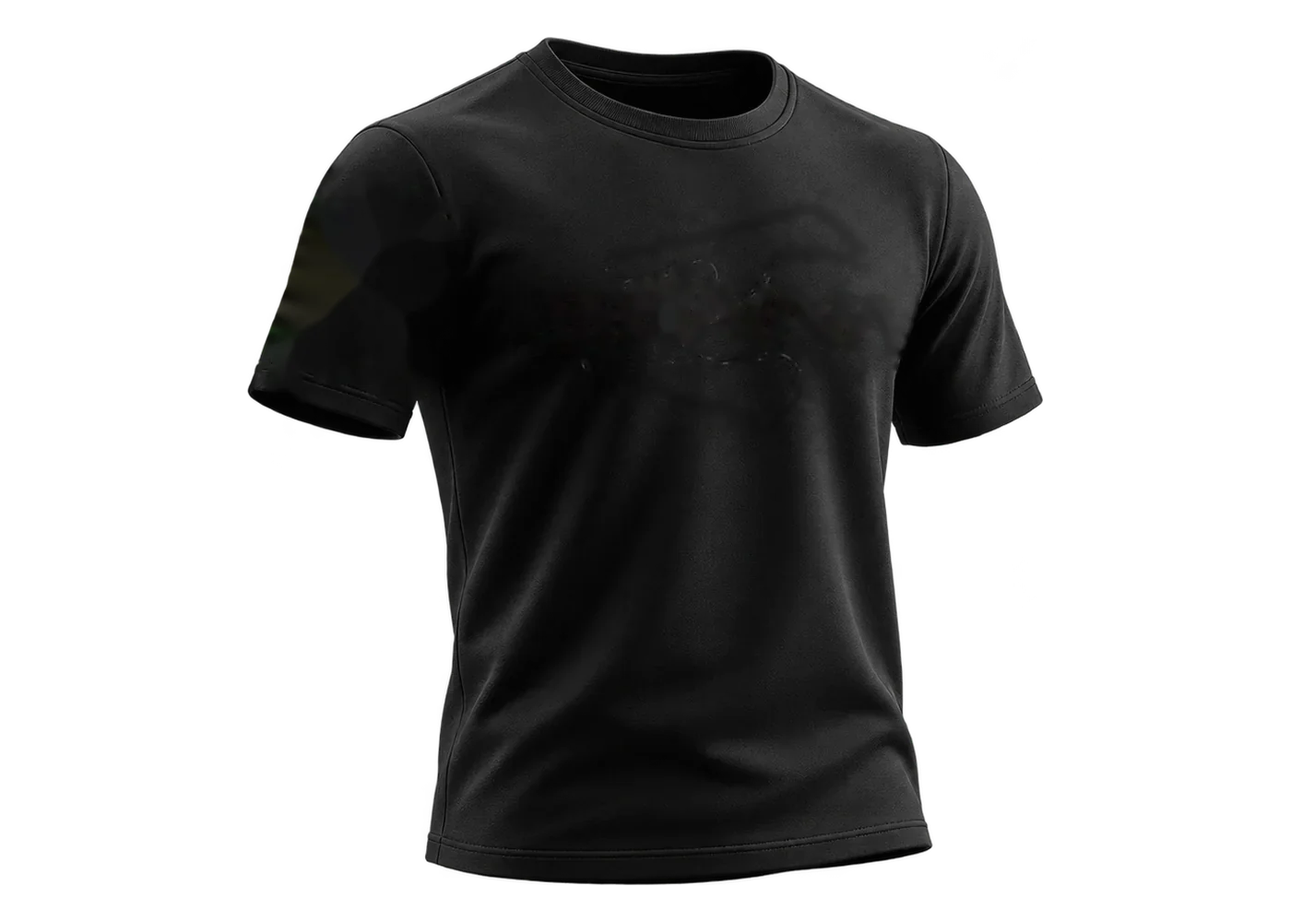
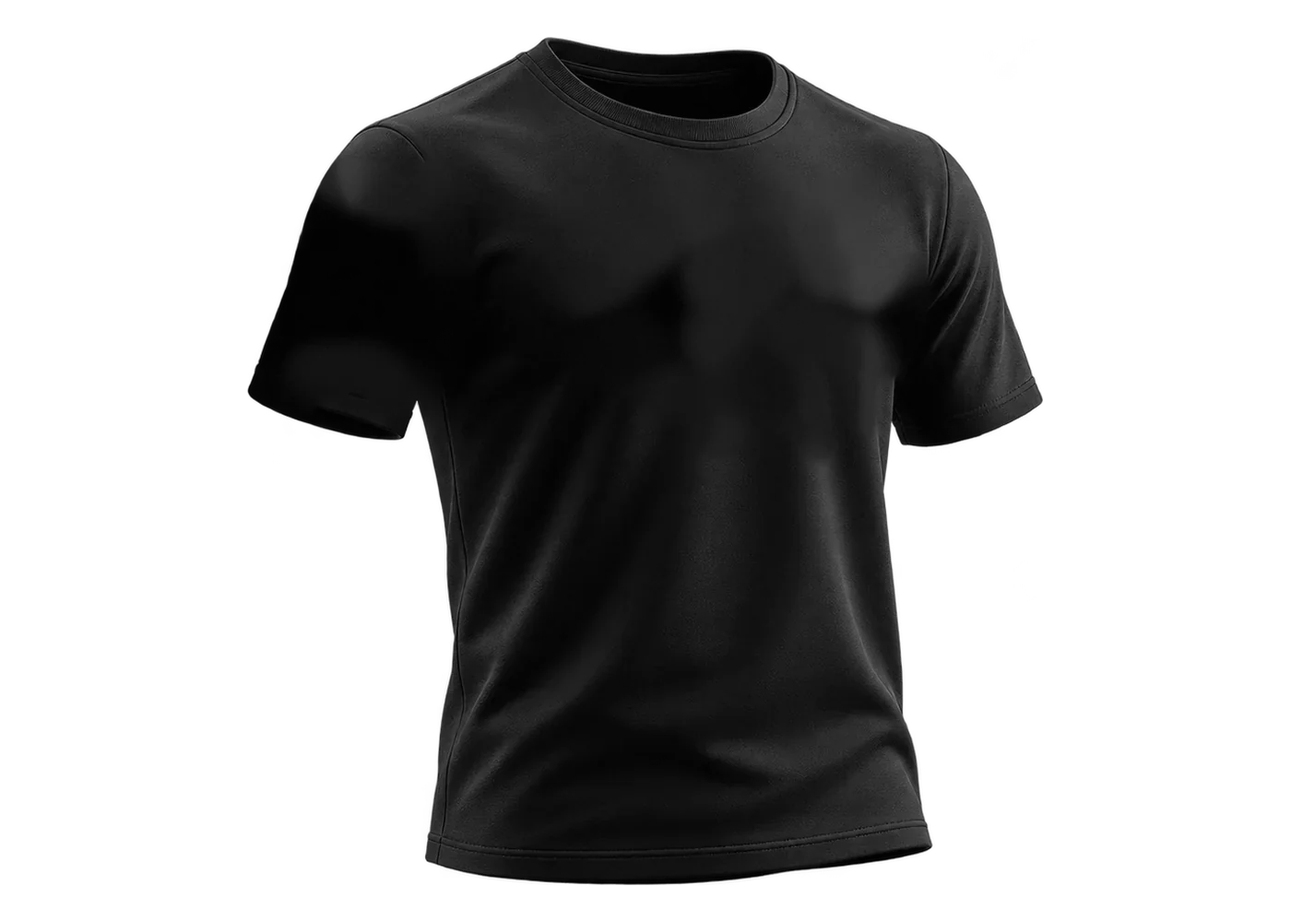
Refinamento: processo sob encomenda, avaliações reais e camadas limpas
- Como funciona em 5 passos (ideia, arte, aprovação, produção, entrega)
- Textos sem ideia de produto pronto e mensagens do WhatsApp personalizadas
- Depoimentos com avaliações reais do Google e selo 4,8
- FAQ com tamanhos, mínimo de 10 peças, pagamento e novas perguntas
- Exploded view em leque, arte das costas visível, traçado vetorial,
  logo chapado e malha lisa sem manchas

Changed region(s): [[0.1843, 0.248, 0.2764, 0.434], [0.6757, 0.279, 0.7371, 0.403], [0.4914, 0.279, 0.5529, 0.372]]

diff --git a/index.html b/index.html
@@ -35,7 +35,7 @@
         <header class="header">
           <a class="brand" href="#hero360" data-scroll-top aria-label="ADONAY, voltar ao início">ADONAY<span class="brand-mark">✳</span></a>
           <span class="header-center">CONCEPT / 001</span>
-          <span class="header-tag"><span class="live-dot"></span> COLEÇÃO EXCLUSIVA</span>
+          <span class="header-tag"><span class="live-dot"></span> 100% PERSONALIZADO</span>
         </header>
 
         <div class="hero-copy" data-hero-copy>
@@ -92,11 +92,11 @@
           <div class="ex-shadow" aria-hidden="true"></div>
           <!-- Camadas de baixo para cima. data-anchor = ponto (x%, y%) onde a linha da legenda encosta -->
           <div class="ex-stack" id="ex-stack">
-            <div class="ex-layer" data-anchor="58,40"><img src="img/layers/layer-costas-lg.webp" srcset="img/layers/layer-costas-sm.webp 760w, img/layers/layer-costas-lg.webp 1400w" sizes="(max-width: 740px) 90vw, 50vw" alt="" fetchpriority="low" decoding="async" /></div>
-            <div class="ex-layer" data-anchor="72,78"><img src="img/layers/layer-malha-lg.webp" srcset="img/layers/layer-malha-sm.webp 760w, img/layers/layer-malha-lg.webp 1400w" sizes="(max-width: 740px) 90vw, 50vw" alt="" fetchpriority="low" decoding="async" /></div>
-            <div class="ex-layer" data-anchor="66,24"><img src="img/layers/layer-tracado-lg.webp" srcset="img/layers/layer-tracado-sm.webp 760w, img/layers/layer-tracado-lg.webp 1400w" sizes="(max-width: 740px) 90vw, 50vw" alt="" fetchpriority="low" decoding="async" /></div>
-            <div class="ex-layer" data-anchor="70,34"><img src="img/layers/layer-logo-lg.webp" srcset="img/layers/layer-logo-sm.webp 760w, img/layers/layer-logo-lg.webp 1400w" sizes="(max-width: 740px) 90vw, 50vw" alt="" fetchpriority="low" decoding="async" /></div>
-            <div class="ex-layer" data-anchor="33,30"><img src="img/layers/layer-bandeira-lg.webp" srcset="img/layers/layer-bandeira-sm.webp 760w, img/layers/layer-bandeira-lg.webp 1400w" sizes="(max-width: 740px) 90vw, 50vw" alt="" fetchpriority="low" decoding="async" /></div>
+            <div class="ex-layer" data-anchor="58,40"><img src="img/layers/layer-costas-lg.webp?v=2" srcset="img/layers/layer-costas-sm.webp?v=2 760w, img/layers/layer-costas-lg.webp?v=2 1400w" sizes="(max-width: 740px) 90vw, 50vw" alt="" fetchpriority="low" decoding="async" /></div>
+            <div class="ex-layer" data-anchor="72,78"><img src="img/layers/layer-malha-lg.webp?v=2" srcset="img/layers/layer-malha-sm.webp?v=2 760w, img/layers/layer-malha-lg.webp?v=2 1400w" sizes="(max-width: 740px) 90vw, 50vw" alt="" fetchpriority="low" decoding="async" /></div>
+            <div class="ex-layer" data-anchor="66,24"><img class="ex-track" src="img/layers/interlagos.svg?v=2" alt="" decoding="async" /></div>
+            <div class="ex-layer" data-anchor="70,34"><img src="img/layers/layer-logo-lg.webp?v=2" srcset="img/layers/layer-logo-sm.webp?v=2 760w, img/layers/layer-logo-lg.webp?v=2 1400w" sizes="(max-width: 740px) 90vw, 50vw" alt="" fetchpriority="low" decoding="async" /></div>
+            <div class="ex-layer" data-anchor="33,30"><img src="img/layers/layer-bandeira-lg.webp?v=2" srcset="img/layers/layer-bandeira-sm.webp?v=2 760w, img/layers/layer-bandeira-lg.webp?v=2 1400w" sizes="(max-width: 740px) 90vw, 50vw" alt="" fetchpriority="low" decoding="async" /></div>
           </div>
         </div>
 
@@ -135,8 +135,8 @@
         <article class="tilt-card feature" data-fade>
           <span class="glare" aria-hidden="true"></span>
           <svg class="feature-icon" viewBox="0 0 24 24" aria-hidden="true"><path d="m12 3 2.6 5.6 6 .7-4.5 4.1 1.2 6L12 16.4 6.7 19.4l1.2-6L3.4 9.3l6-.7L12 3Z"/></svg>
-          <h3>Design exclusivo</h3>
-          <p>Artes autorais que você não encontra em loja de shopping.</p>
+          <h3>Arte do seu jeito</h3>
+          <p>Criamos a estampa a partir da sua ideia, com mockup para aprovar.</p>
         </article>
         <article class="tilt-card feature" data-fade>
           <span class="glare" aria-hidden="true"></span>
@@ -151,32 +151,32 @@
     <section id="colecao" class="collection" aria-labelledby="collection-title">
       <div class="collection-stage">
         <div class="collection-head">
-          <div class="eyebrow"><span class="eyebrow-line"></span> COLEÇÃO SENNA</div>
+          <div class="eyebrow"><span class="eyebrow-line"></span> EXEMPLO DE TRABALHO</div>
           <h2 id="collection-title">Cada ângulo<br /><em>conta uma história.</em></h2>
-          <p>Arraste ou role para ver.</p>
+          <p>Estampa criada sob encomenda. A sua pode ser assim.</p>
         </div>
         <div class="collection-track" id="collection-track">
           <article class="tilt-card product" data-product="SENNA Black Edition (frente)">
             <span class="glare" aria-hidden="true"></span>
             <div class="product-img"><img src="img/tee/tee-00-sm.webp" alt="Frente da camiseta com logo SENNA e traçado de Interlagos" loading="lazy" decoding="async" /></div>
-            <div class="product-info"><span class="product-tag">FRENTE</span><h3>Logo + Interlagos</h3><a class="product-cta" data-whatsapp-product href="#">QUERO ESSA <span>→</span></a></div>
+            <div class="product-info"><span class="product-tag">FRENTE</span><h3>Logo + Interlagos</h3><a class="product-cta" data-whatsapp-product href="#">QUERO ALGO ASSIM <span>→</span></a></div>
           </article>
           <article class="tilt-card product" data-product="SENNA Black Edition (costas)">
             <span class="glare" aria-hidden="true"></span>
             <div class="product-img"><img src="img/tee/tee-04-sm.webp" alt="Costas da camiseta com pôster de Ayrton Senna" loading="lazy" decoding="async" /></div>
-            <div class="product-info"><span class="product-tag">COSTAS</span><h3>Pôster Ayrton Senna</h3><a class="product-cta" data-whatsapp-product href="#">QUERO ESSA <span>→</span></a></div>
+            <div class="product-info"><span class="product-tag">COSTAS</span><h3>Pôster Ayrton Senna</h3><a class="product-cta" data-whatsapp-product href="#">QUERO ALGO ASSIM <span>→</span></a></div>
           </article>
           <article class="tilt-card product" data-product="SENNA Black Edition (manga com bandeira)">
             <span class="glare" aria-hidden="true"></span>
             <div class="product-img"><img src="img/tee/tee-02-sm.webp" alt="Manga da camiseta com bandeira do Brasil em chamas" loading="lazy" decoding="async" /></div>
-            <div class="product-info"><span class="product-tag">MANGA</span><h3>Brasil em chamas</h3><a class="product-cta" data-whatsapp-product href="#">QUERO ESSA <span>→</span></a></div>
+            <div class="product-info"><span class="product-tag">MANGA</span><h3>Brasil em chamas</h3><a class="product-cta" data-whatsapp-product href="#">QUERO ALGO ASSIM <span>→</span></a></div>
           </article>
           <article class="tilt-card product" data-product="SENNA Black Edition (vista 3/4)">
             <span class="glare" aria-hidden="true"></span>
             <div class="product-img"><img src="img/tee/tee-03-sm.webp" alt="Vista em três quartos mostrando manga e costas" loading="lazy" decoding="async" /></div>
-            <div class="product-info"><span class="product-tag">3/4</span><h3>Todos os detalhes</h3><a class="product-cta" data-whatsapp-product href="#">QUERO ESSA <span>→</span></a></div>
+            <div class="product-info"><span class="product-tag">3/4</span><h3>Todos os detalhes</h3><a class="product-cta" data-whatsapp-product href="#">QUERO ALGO ASSIM <span>→</span></a></div>
           </article>
-          <article class="tilt-card product product-custom" data-product="estampa personalizada">
+          <article class="tilt-card product product-custom" data-product="estampa personalizada" data-message="Olá! Vim pelo site e quero criar uma estampa personalizada do zero.">
             <span class="glare" aria-hidden="true"></span>
             <div class="product-img custom-art" aria-hidden="true"><span>SUA<br />IDEIA<br /><em>AQUI.</em></span></div>
             <div class="product-info"><span class="product-tag">PERSONALIZADA</span><h3>Crie a sua estampa</h3><a class="product-cta" data-whatsapp-product href="#">CRIAR A MINHA <span>→</span></a></div>
@@ -189,47 +189,65 @@
     <section class="section steps-section" aria-labelledby="steps-title">
       <div class="section-head">
         <div class="eyebrow" data-fade><span class="eyebrow-line"></span> COMO FUNCIONA</div>
-        <h2 id="steps-title" data-split>Do clique à sua casa<br /><em>em três passos.</em></h2>
+        <h2 id="steps-title" data-split>Da sua ideia à sua casa<br /><em>em cinco passos.</em></h2>
       </div>
       <div class="how" id="how">
-        <svg class="how-line" viewBox="0 0 1000 40" preserveAspectRatio="none" aria-hidden="true"><path d="M0 20 C 160 0, 340 40, 500 20 S 840 0, 1000 20" pathLength="1" /></svg>
+        <svg class="how-line" viewBox="0 0 1000 40" preserveAspectRatio="none" aria-hidden="true"><path d="M0 20 H1000" pathLength="1" /></svg>
         <div class="how-step">
           <span class="how-num">01</span>
-          <h3>Escolha</h3>
-          <p>Veja a peça por todos os ângulos e escolha a sua estampa.</p>
+          <h3>Conte sua ideia</h3>
+          <p>Chame no WhatsApp e diga o tipo de peça, a estampa e a quantidade.</p>
         </div>
         <div class="how-step">
           <span class="how-num">02</span>
-          <h3>Chame no WhatsApp</h3>
-          <p>Fale tamanho e quantidade. A gente responde com o orçamento.</p>
+          <h3>Criamos a arte</h3>
+          <p>Montamos a estampa e o mockup na camiseta.</p>
         </div>
         <div class="how-step">
           <span class="how-num">03</span>
-          <h3>Receba</h3>
-          <p>Pagamento combinado e a camiseta chega até você.</p>
+          <h3>Você aprova</h3>
+          <p>Ajustamos até ficar do seu jeito.</p>
+        </div>
+        <div class="how-step">
+          <span class="how-num">04</span>
+          <h3>Pagamento e produção</h3>
+          <p>Com a arte aprovada, você fecha o pedido e começamos a produzir.</p>
+        </div>
+        <div class="how-step">
+          <span class="how-num">05</span>
+          <h3>Entrega</h3>
+          <p>Sua camiseta chega na data combinada.</p>
         </div>
       </div>
     </section>
 
     <!-- ============ DEPOIMENTOS ============ -->
-    <!-- ATENÇÃO: textos de exemplo. Troque por avaliações reais antes de rodar anúncios. -->
+    <!-- Avaliações reais da Adonay Confecção no Google Maps (lidas em 28/10/2026) -->
     <section class="section testimonials" aria-labelledby="testimonials-title">
       <div class="section-head">
-        <div class="eyebrow" data-fade><span class="eyebrow-line"></span> QUEM JÁ USA</div>
+        <div class="eyebrow" data-fade><span class="eyebrow-line"></span> QUEM JÁ FEZ COM A GENTE</div>
         <h2 id="testimonials-title" data-split>O que dizem<br /><em>sobre a ADONAY.</em></h2>
+        <a class="g-badge" data-fade href="https://www.google.com/maps/place/Adonay+Confec%C3%A7%C3%A3o/@-19.7894806,-43.9311514,17z/data=!4m8!3m7!1s0xa685b7efdce139:0x4a629f3e84a85617!8m2!3d-19.7894806!4d-43.9311514!9m1!1b1!16s%2Fg%2F11f7lhm4r5?hl=pt_BR" target="_blank" rel="noopener">
+          <span class="g-score">4,8</span>
+          <span class="g-meta"><span class="stars" aria-hidden="true">★★★★★</span><span>20 avaliações no Google</span></span>
+          <span class="g-arrow" aria-hidden="true">→</span>
+        </a>
       </div>
-      <div class="marquee" aria-label="Depoimentos">
+      <div class="marquee" aria-label="Avaliações de clientes no Google">
         <div class="marquee-row">
-          <figure class="quote"><span class="sample-tag">EXEMPLO</span><blockquote>“A estampa é ainda mais bonita pessoalmente. Recebi vários elogios.”</blockquote><figcaption>Nome do cliente · Cidade</figcaption></figure>
-          <figure class="quote"><span class="sample-tag">EXEMPLO</span><blockquote>“Atendimento rápido no WhatsApp, tiraram todas as minhas dúvidas.”</blockquote><figcaption>Nome do cliente · Cidade</figcaption></figure>
-          <figure class="quote"><span class="sample-tag">EXEMPLO</span><blockquote>“Malha confortável e o caimento ficou perfeito.”</blockquote><figcaption>Nome do cliente · Cidade</figcaption></figure>
-          <figure class="quote"><span class="sample-tag">EXEMPLO</span><blockquote>“Já lavei várias vezes e a cor continua igual.”</blockquote><figcaption>Nome do cliente · Cidade</figcaption></figure>
+          <figure class="quote"><span class="stars" aria-label="5 estrelas">★★★★★</span><blockquote>“Extremamente perfeita! Minha sala fechou camisas personalizadas do nosso jeitinho e simplesmente amamos! Atenção e carinho desde o atendimento até embalagem/entrega.”</blockquote><figcaption><strong>Carolina S.</strong> · Avaliação no Google</figcaption></figure>
+          <figure class="quote"><span class="stars" aria-label="5 estrelas">★★★★★</span><blockquote>“Solicitamos 12 uniformes pra empresa. Atendimento foi rápido. Criaram a arte necessária. Uniformes muito bom. Qualidade do tecido é boa. Preço bom. Só elogios a Adonay 😃🙌”</blockquote><figcaption><strong>Andre</strong> · Avaliação no Google</figcaption></figure>
+          <figure class="quote"><span class="stars" aria-label="5 estrelas">★★★★★</span><blockquote>“O atendimento é maravilhoso, os produtos de excelente qualidade. Uma empresa que confio de olhos fechados.”</blockquote><figcaption><strong>Isabella C.</strong> · Avaliação no Google</figcaption></figure>
+          <figure class="quote"><span class="stars" aria-label="5 estrelas">★★★★★</span><blockquote>“A empresa é sempre minha primeira opção. O material é de qualidade, as estampas perfeitas e o atendimento excelente! Super recomendo!”</blockquote><figcaption><strong>Pâmela M.</strong> · Avaliação no Google</figcaption></figure>
+          <figure class="quote"><span class="stars" aria-label="5 estrelas">★★★★★</span><blockquote>“Excelente atendimento, boa confecção e excelente tecido, gostamos muito e recomendamos.”</blockquote><figcaption><strong>Larissa S.</strong> · Avaliação no Google</figcaption></figure>
         </div>
         <div class="marquee-row reverse">
-          <figure class="quote"><span class="sample-tag">EXEMPLO</span><blockquote>“Comprei para presente e foi sucesso total.”</blockquote><figcaption>Nome do cliente · Cidade</figcaption></figure>
-          <figure class="quote"><span class="sample-tag">EXEMPLO</span><blockquote>“Fizeram a estampa personalizada do jeito que eu pedi.”</blockquote><figcaption>Nome do cliente · Cidade</figcaption></figure>
-          <figure class="quote"><span class="sample-tag">EXEMPLO</span><blockquote>“Chegou bem embalada e antes do prazo.”</blockquote><figcaption>Nome do cliente · Cidade</figcaption></figure>
-          <figure class="quote"><span class="sample-tag">EXEMPLO</span><blockquote>“Melhor camiseta temática que já comprei.”</blockquote><figcaption>Nome do cliente · Cidade</figcaption></figure>
+          <figure class="quote"><span class="stars" aria-label="5 estrelas">★★★★★</span><blockquote>“Simplesmente impecável, perfeito, dentro do prazo e até melhor do que pedimos, trabalho excelente, atendimento maravilhoso e atencioso, super educados e dispostos. A turma amou.”</blockquote><figcaption><strong>Cliente no Google</strong> · Avaliação no Google</figcaption></figure>
+          <figure class="quote"><span class="stars" aria-label="5 estrelas">★★★★★</span><blockquote>“Comprei duas blusas da faculdade com eles, excelente material.”</blockquote><figcaption><strong>Pedro Henrique S.</strong> · Avaliação no Google</figcaption></figure>
+          <figure class="quote"><span class="stars" aria-label="5 estrelas">★★★★★</span><blockquote>“Eu adorei desde o atendimento até a entrega. Amei os uniformes. Estão de parabéns, indico!”</blockquote><figcaption><strong>Edilson J.</strong> · Avaliação no Google</figcaption></figure>
+          <figure class="quote"><span class="stars" aria-label="5 estrelas">★★★★★</span><blockquote>“Super indico!!! Profissionais no trabalho. Entregaram o combinado com qualidade!”</blockquote><figcaption><strong>Luciano O.</strong> · Avaliação no Google</figcaption></figure>
+          <figure class="quote"><span class="stars" aria-label="5 estrelas">★★★★★</span><blockquote>“A melhor possível. Profissionais maravilhosos, realizando sonhos.”</blockquote><figcaption><strong>Zilda F.</strong> · Avaliação no Google</figcaption></figure>
+          <figure class="quote"><span class="stars" aria-label="5 estrelas">★★★★★</span><blockquote>“Amei as minhas blusas!”</blockquote><figcaption><strong>Iara A.</strong> · Avaliação no Google</figcaption></figure>
         </div>
       </div>
     </section>
@@ -244,24 +262,36 @@
         </div>
         <div class="faq-list">
           <details class="faq-item" data-fade>
-            <summary>Quais tamanhos estão disponíveis?<span class="faq-icon" aria-hidden="true"></span></summary>
-            <div class="faq-body"><p>Trabalhamos com a grade padrão adulto. Mande sua altura e peso no WhatsApp que ajudamos a escolher o tamanho certo.</p></div>
+            <summary>Quais tamanhos vocês trabalham?<span class="faq-icon" aria-hidden="true"></span></summary>
+            <div class="faq-body"><p>Trabalhamos com duas modelagens, <strong>Padrão</strong> e <strong>Baby Look</strong>:</p><div class="size-pills"><span>PP</span><span>P</span><span>M</span><span>G</span><span>GG</span><span>G1</span><span>G2</span><span>G3</span><span>G4</span><span>G5</span></div><p>E também <strong>infantil</strong>:</p><div class="size-pills"><span>2</span><span>4</span><span>6</span><span>8</span><span>10</span><span>12</span><span>14</span><em>anos</em></div></div>
+          </details>
+          <details class="faq-item" data-fade>
+            <summary>Qual a quantidade mínima?<span class="faq-icon" aria-hidden="true"></span></summary>
+            <div class="faq-body"><p>Nosso pedido mínimo é de <strong>10 peças</strong>. Ideal para turmas, empresas, eventos e grupos.</p></div>
+          </details>
+          <details class="faq-item" data-fade>
+            <summary>Vocês criam a arte?<span class="faq-icon" aria-hidden="true"></span></summary>
+            <div class="faq-body"><p>Sim! Criamos a estampa a partir da sua ideia ou referência. É só mandar no WhatsApp o que você imagina.</p></div>
+          </details>
+          <details class="faq-item" data-fade>
+            <summary>Vou ver como fica antes de pagar?<span class="faq-icon" aria-hidden="true"></span></summary>
+            <div class="faq-body"><p>Sim. Enviamos o mockup da estampa na camiseta para você aprovar. A produção só começa depois da sua aprovação.</p></div>
           </details>
           <details class="faq-item" data-fade>
             <summary>Qual o prazo de entrega?<span class="faq-icon" aria-hidden="true"></span></summary>
-            <div class="faq-body"><p>O prazo depende da quantidade e da sua cidade. Informamos a data certinha junto com o orçamento.</p></div>
+            <div class="faq-body"><p>Depende do tipo de pedido e da quantidade. Informamos a data certinha junto com o orçamento.</p></div>
           </details>
           <details class="faq-item" data-fade>
             <summary>Como faço o pagamento?<span class="faq-icon" aria-hidden="true"></span></summary>
-            <div class="faq-body"><p>As formas de pagamento são combinadas no WhatsApp, na hora de fechar o pedido.</p></div>
+            <div class="faq-body"><p><strong>Presencialmente:</strong> dinheiro, cartão ou Pix.<br /><strong>Pelo WhatsApp:</strong> Pix ou cartão por link de pagamento.</p></div>
           </details>
           <details class="faq-item" data-fade>
-            <summary>Posso pedir uma estampa personalizada?<span class="faq-icon" aria-hidden="true"></span></summary>
-            <div class="faq-body"><p>Pode! Mande sua ideia ou referência no WhatsApp e montamos a proposta para você.</p></div>
+            <summary>Fazem uniformes para empresa, turma e eventos?<span class="faq-icon" aria-hidden="true"></span></summary>
+            <div class="faq-body"><p>Fazemos! Uniformes para empresas, camisas de turma, faculdade, sala de aula e eventos.</p></div>
           </details>
           <details class="faq-item" data-fade>
-            <summary>Vocês fazem pedidos em quantidade?<span class="faq-icon" aria-hidden="true"></span></summary>
-            <div class="faq-body"><p>Sim. Para grupos, eventos e equipes, peça um orçamento informando a quantidade.</p></div>
+            <summary>Onde vocês ficam?<span class="faq-icon" aria-hidden="true"></span></summary>
+            <div class="faq-body"><p>R. Geraldo Teixeira da Costa, 1916, São Benedito, Santa Luzia/MG. Também atendemos pelo WhatsApp.</p></div>
           </details>
         </div>
       </div>
@@ -271,8 +301,8 @@
     <section class="cta-section" aria-label="Pedir orçamento">
       <div class="cta-inner">
         <div class="eyebrow" data-fade><span class="eyebrow-line"></span> PRÓXIMO PASSO</div>
-        <h2 data-split>Gostou da peça?<br /><em>Fale com a gente.</em></h2>
-        <p data-fade>Orçamento rápido e sem compromisso, direto no WhatsApp.</p>
+        <h2 data-split>Tem uma ideia?<br /><em>A gente cria com você.</em></h2>
+        <p data-fade>Conte o que você imagina e receba o orçamento direto no WhatsApp.</p>
         <a class="cta-button" data-whatsapp data-fade href="#">
           <svg viewBox="0 0 24 24" aria-hidden="true"><path d="M12 2a10 10 0 0 0-8.6 15.1L2 22l5-1.3A10 10 0 1 0 12 2Zm0 18.2a8.2 8.2 0 0 1-4.2-1.2l-.3-.2-3 .8.8-2.9-.2-.3A8.2 8.2 0 1 1 12 20.2Zm4.5-6.1c-.2-.1-1.5-.7-1.7-.8-.2-.1-.4-.1-.6.1l-.8 1c-.1.2-.3.2-.5.1a6.7 6.7 0 0 1-3.3-2.9c-.2-.4.2-.4.7-1.3.1-.2 0-.3 0-.4l-.8-1.8c-.2-.5-.4-.4-.6-.4h-.5a1 1 0 0 0-.7.3 3 3 0 0 0-.9 2.2 5.2 5.2 0 0 0 1.1 2.7 11.8 11.8 0 0 0 4.5 4c1.7.7 2.3.8 3.2.6.5-.1 1.5-.6 1.7-1.2.2-.6.2-1.1.2-1.2-.1-.1-.3-.2-.5-.3Z"/></svg>
           CHAMAR NO WHATSAPP

diff --git a/css/style.css b/css/style.css
@@ -236,13 +236,13 @@ h1 em { font-style: normal; color: #aaa69d; }
 
 .ex-scene {
   position: absolute; inset: 0; z-index: 1;
-  perspective: 1700px; perspective-origin: 42% 45%;
+  perspective: 2000px; perspective-origin: 42% 50%;
 }
 .ex-stack {
-  position: absolute; top: 56%; left: 42%;
-  height: min(50svh, 540px); aspect-ratio: 1.4;
-  margin-left: calc(min(50svh, 540px) * -.7);
-  margin-top: calc(min(50svh, 540px) * -.5);
+  position: absolute; top: 60%; left: 40%;
+  height: min(54svh, 600px); aspect-ratio: 1.4;
+  margin-left: calc(min(54svh, 600px) * -.7);
+  margin-top: calc(min(54svh, 600px) * -.5);
   transform-style: preserve-3d;
   will-change: transform;
 }
@@ -253,10 +253,15 @@ h1 em { font-style: normal; color: #aaa69d; }
   will-change: transform;
 }
 .ex-layer img { display: block; width: 100%; height: 100%; user-select: none; -webkit-user-drag: none; pointer-events: none; }
+/* Traçado de Interlagos: vetor (SVG) posicionado no peito, sempre nítido */
+.ex-layer img.ex-track {
+  position: absolute; left: 55.7%; top: 33%; width: 25%; height: 36.5%;
+  transform: translate(-50%, -50%) rotate(55deg) scale(1, .75);
+}
 .ex-stack.isolate .ex-layer { opacity: .12; }
 .ex-stack.isolate .ex-layer.focus { opacity: 1; }
 .ex-shadow {
-  position: absolute; left: 42%; top: 76%; width: 34vw; height: 9vh; translate: -50% 0;
+  position: absolute; left: 40%; top: 84%; width: 34vw; height: 9vh; translate: -50% 0;
   background: radial-gradient(ellipse at center, rgba(0, 0, 0, .8), transparent 70%);
   opacity: .6;
 }
@@ -266,8 +271,8 @@ h1 em { font-style: normal; color: #aaa69d; }
 .ex-lines circle { fill: var(--gold-soft); }
 
 .ex-callouts {
-  position: absolute; z-index: 3; top: 50%; right: clamp(24px, 6vw, 110px); translate: 0 -50%;
-  list-style: none; margin: 0; padding: 0; width: min(300px, 26vw);
+  position: absolute; z-index: 3; top: 46%; left: min(calc(40% + min(54svh, 600px) * 1.05), calc(100% - min(270px, 22vw) - 28px)); translate: 0 -50%;
+  list-style: none; margin: 0; padding: 0; width: min(270px, 22vw);
   display: flex; flex-direction: column; gap: clamp(14px, 3.2vh, 34px);
 }
 .ex-callout {
@@ -412,17 +417,17 @@ h1 em { font-style: normal; color: #aaa69d; }
 .custom-art em { font-style: normal; color: var(--gold); }
 
 /* ---------- Como funciona ---------- */
-.how { position: relative; display: grid; grid-template-columns: repeat(3, 1fr); gap: 40px; padding-top: 70px; }
+.how { position: relative; display: grid; grid-template-columns: repeat(5, 1fr); gap: 28px; padding-top: 70px; }
 .how-line { position: absolute; top: 0; left: 0; width: 100%; height: 40px; overflow: visible; }
-.how-line path { fill: none; stroke: var(--gold); stroke-width: 1.5; stroke-dasharray: 1; stroke-dashoffset: 1; vector-effect: non-scaling-stroke; }
+.how-line path { fill: none; stroke: var(--gold); stroke-width: 1.5; stroke-dasharray: 1; stroke-dashoffset: 1; }
 .how-step { position: relative; }
 .how-step::before {
   content: ''; position: absolute; top: -58px; left: 0; width: 14px; height: 14px; border-radius: 50%;
   background: var(--bg); border: 2px solid var(--gold); box-shadow: 0 0 0 6px rgba(173, 152, 113, .1);
 }
-.how-num { font-family: Oswald, sans-serif; font-size: 64px; line-height: 1; color: #24221e; display: block; margin-bottom: 14px; }
-.how-step h3 { font-size: 26px; }
-.how-step p { color: #8d8a83; font-size: 14px; line-height: 1.7; margin: 10px 0 0; max-width: 300px; }
+.how-num { font-family: Oswald, sans-serif; font-size: 52px; line-height: 1; color: #24221e; display: block; margin-bottom: 14px; }
+.how-step h3 { font-size: 21px; }
+.how-step p { color: #8d8a83; font-size: 13.5px; line-height: 1.65; margin: 10px 0 0; max-width: 240px; }
 
 /* ---------- Depoimentos (carrossel infinito) ---------- */
 .testimonials { padding-left: 0; padding-right: 0; overflow: hidden; }
@@ -442,10 +447,22 @@ h1 em { font-style: normal; color: #aaa69d; }
 }
 .quote blockquote { margin: 0; font-size: 16px; line-height: 1.6; color: #ddd7ca; }
 .quote figcaption { margin-top: 18px; font-size: 11px; letter-spacing: 1.2px; color: #77746d; }
-.sample-tag {
-  position: absolute; top: 14px; right: 14px; font-size: 8px; font-weight: 700; letter-spacing: 1.5px;
-  color: #8a7a5c; border: 1px solid #3a3326; padding: 3px 6px; border-radius: 4px;
+.stars { color: #e8b84a; letter-spacing: 2px; font-size: 13px; }
+.quote .stars { display: block; margin-bottom: 14px; }
+.quote figcaption strong { color: #c9c3b6; font-weight: 700; }
+
+/* Selo de avaliações do Google */
+.g-badge {
+  display: inline-flex; align-items: center; gap: 16px; margin-top: 30px;
+  padding: 14px 20px 14px 16px; border-radius: 14px; text-decoration: none;
+  background: #0e0e0e; border: 1px solid rgba(255, 255, 255, .08);
+  transition: border-color .3s, transform .3s;
 }
+.g-badge:hover { border-color: rgba(232, 184, 74, .45); transform: translateY(-2px); }
+.g-score { font-family: Oswald, sans-serif; font-size: 40px; line-height: 1; color: #f3f0e9; }
+.g-meta { display: flex; flex-direction: column; gap: 4px; font-size: 11px; letter-spacing: 1px; color: #8d8a83; }
+.g-arrow { color: var(--gold); font-size: 18px; transition: transform .3s; }
+.g-badge:hover .g-arrow { transform: translateX(4px); }
 
 /* ---------- FAQ ---------- */
 .faq-wrap { display: grid; grid-template-columns: minmax(260px, 1fr) 1.4fr; gap: clamp(40px, 6vw, 110px); align-items: start; }
@@ -466,7 +483,17 @@ h1 em { font-style: normal; color: #aaa69d; }
 .faq-icon::after { transform: rotate(90deg); }
 .faq-item[open] .faq-icon::after { transform: rotate(0deg); }
 .faq-body { overflow: hidden; }
-.faq-body p { margin: 0; padding: 0 40px 26px 0; color: #8d8a83; font-size: 15px; line-height: 1.75; }
+.faq-body { padding: 0 40px 0 0; }
+.faq-body > :last-child { margin-bottom: 26px; }
+.faq-body p { margin: 0 0 12px; color: #8d8a83; font-size: 15px; line-height: 1.75; }
+.faq-body strong { color: #d8d1c3; font-weight: 600; }
+.size-pills { display: flex; flex-wrap: wrap; align-items: center; gap: 8px; margin: 0 0 16px; }
+.size-pills span {
+  min-width: 40px; padding: 7px 10px; text-align: center; border-radius: 8px;
+  font-size: 12px; font-weight: 700; letter-spacing: .5px; color: var(--gold-soft);
+  border: 1px solid rgba(173, 152, 113, .35); background: rgba(173, 152, 113, .06);
+}
+.size-pills em { font-style: normal; font-size: 12px; color: #8d8a83; margin-left: 4px; }
 
 /* ---------- Chamada final: brilho girando atrás do botão ---------- */
 .cta-button { position: relative; isolation: isolate; }
@@ -585,7 +612,7 @@ h1 em { font-style: normal; color: #aaa69d; }
   .quote blockquote { font-size: 15px; }
   .faq-wrap { grid-template-columns: 1fr; gap: 10px; }
   .faq-item summary { font-size: 15px; padding: 22px 0; }
-  .faq-body p { padding-right: 10px; }
+  .faq-body { padding-right: 10px; }
   .footer { justify-content: center; text-align: center; }
 }
 

diff --git a/js/main.js b/js/main.js
@@ -4,7 +4,7 @@
 /* ================= CONFIGURAÇÃO ================= */
 // Número com DDI + DDD, só dígitos. Ex.: '5531999998888'
 const WHATSAPP_NUMBER = '';
-const WHATSAPP_MESSAGE = 'Olá! Vim pelo site e quero um orçamento da camiseta ADONAY.';
+const WHATSAPP_MESSAGE = 'Olá! Vim pelo site e quero fazer uma camiseta personalizada.';
 
 const FRAME_COUNT = 8;              // ângulos: 0°, 45°, 90° ... 315°
 const SCROLL_LENGTH = 2.4;          // quantas "telas" de rolagem dura o giro
@@ -271,13 +271,28 @@ function setupExploded(lenis) {
   let kickVelocity = 0;
   let active = false;
 
+  // Para onde cada camada vai quando a peça abre (em frações da altura da pilha):
+  // as camadas se espalham em leque na diagonal em vez de empilhar em profundidade,
+  // assim a foto quase não inclina e continua parecendo foto.
+  const SPREAD = [
+    { x: .5, y: .16, z: -.1, s: .9 },   // arte das costas: sai para a direita e um pouco abaixo
+    { x: 0, y: 0, z: 0, s: 1 },         // malha
+    { x: .04, y: -.3, z: .18, s: 1 },   // traçado
+    { x: .1, y: -.5, z: .32, s: 1 },    // logo
+    { x: -.1, y: -.42, z: .42, s: 1 },  // bandeira
+  ];
+
   function render() {
-    const gap = stack.offsetHeight * .24 * state.explode * (1 + kick);
+    const h = stack.offsetHeight;
+    const e = state.explode * (1 + kick);
     stack.style.transform =
-      `rotateX(${state.tilt * 56}deg) rotateZ(${state.tilt * -28}deg) scale(${1 - state.tilt * .1})`;
+      `rotateX(${state.tilt * 16}deg) rotateY(${state.tilt * -18}deg) scale(${1 - state.tilt * .06})`;
     layers.forEach((layer, i) => {
+      const v = SPREAD[i];
+      const scale = 1 + (v.s - 1) * state.explode;
       // 0.5px por camada evita "piscar" quando estão todas no mesmo plano
-      layer.style.transform = `translateZ(${(i - 2) * gap + i * .5}px)`;
+      layer.style.transform =
+        `translate3d(${v.x * h * e}px, ${v.y * h * e}px, ${v.z * h * e + i * .5}px) scale(${scale})`;
     });
 
     const showLines = getComputedStyle(svg).display !== 'none';
@@ -360,7 +375,7 @@ function setupSections() {
   // Botão "Quero essa" de cada peça abre o WhatsApp com o nome dela
   document.querySelectorAll('[data-product]').forEach((card) => {
     const link = card.querySelector('[data-whatsapp-product]');
-    const text = `Olá! Vim pelo site e quero um orçamento da camiseta ${card.dataset.product}.`;
+    const text = card.dataset.message || `Olá! Vim pelo site e quero fazer uma camiseta personalizada parecida com esta: ${card.dataset.product}.`;
     link.href = WHATSAPP_NUMBER
       ? `https://wa.me/${WHATSAPP_NUMBER}?text=${encodeURIComponent(text)}`
       : `https://api.whatsapp.com/send?text=${encodeURIComponent(text)}`;
